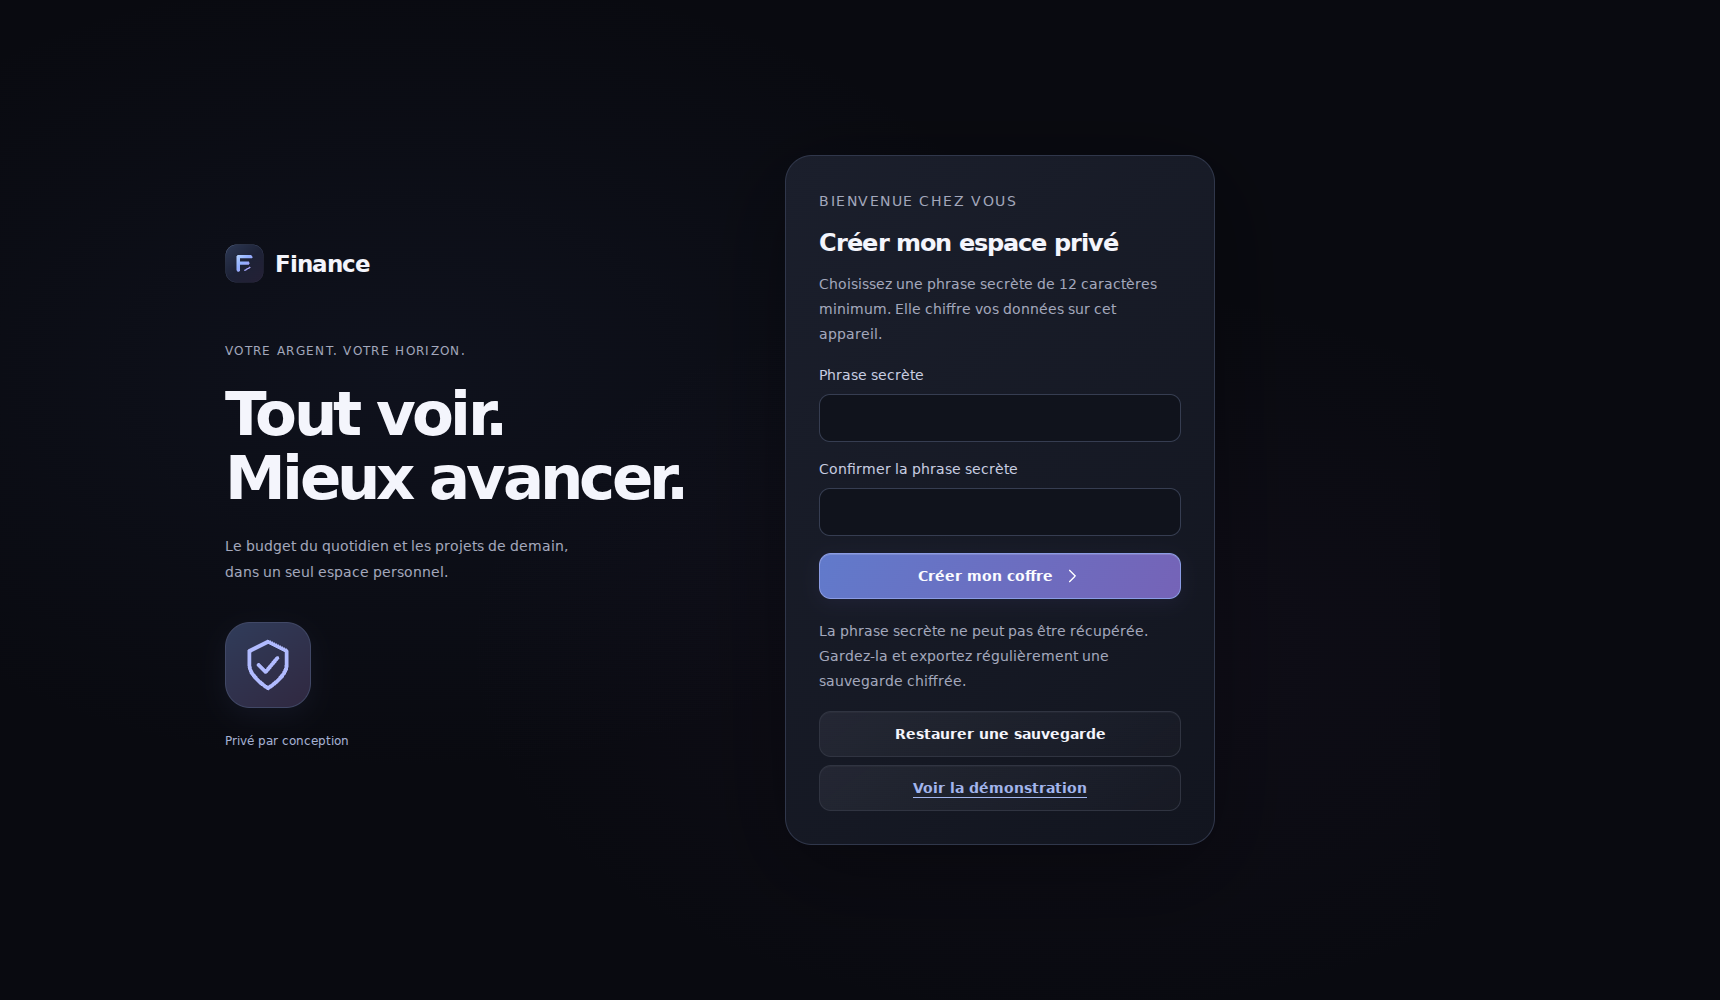
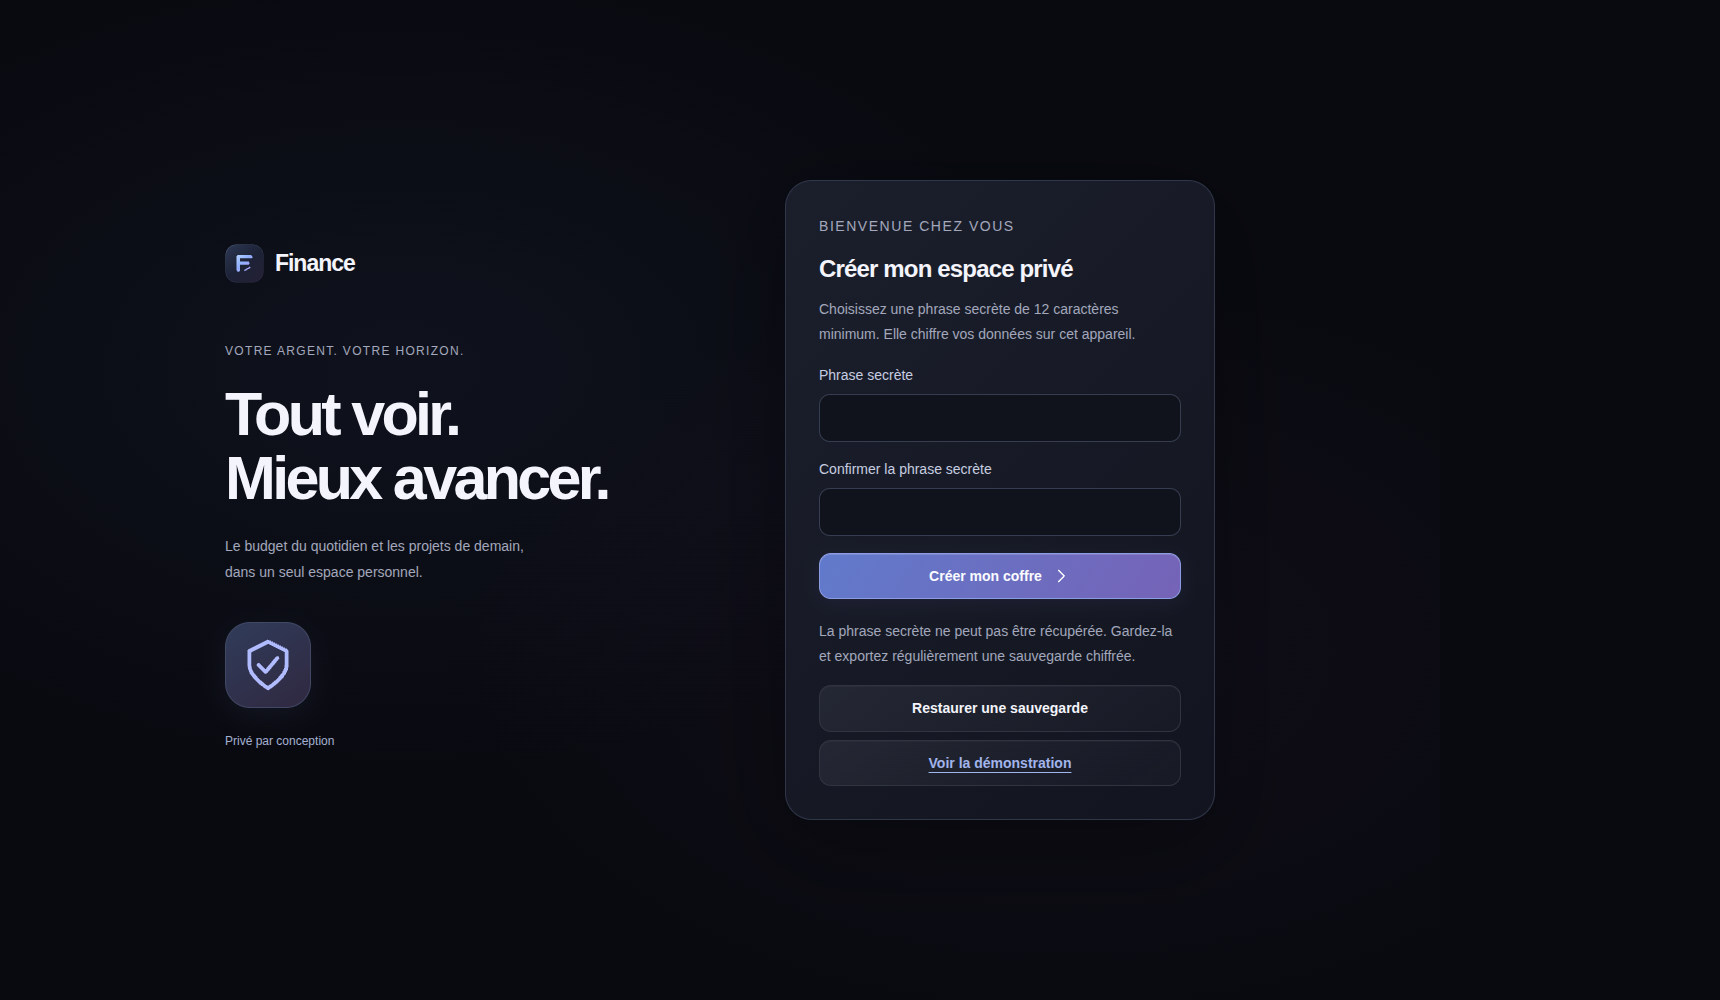
wip: durcissement du coffre et polish visuel en cours
Point d'étape intermédiaire pendant la session de finalisation
nocturne (agents finance-donnees-sync et finance-designer encore en
cours). Vérifié à cet instant : typecheck OK, 74/74 tests unitaires
(+6 depuis le dernier commit) OK. La revue indépendante et les
parcours e2e complets restent à faire une fois les agents terminés.

Claude-Session: https://claude.ai/code/session_01BRBYP9qFWMSoWkBQrWgN3b

diff --git a/src/vault.test.ts b/src/vault.test.ts
@@ -59,6 +59,12 @@ const sample = (): FinanceData => ({
   ],
 });
 
+function toB64(bytes: Uint8Array): string {
+  let binary = "";
+  for (const byte of bytes) binary += String.fromCharCode(byte);
+  return btoa(binary);
+}
+
 beforeEach(() => {
   local = new MemoryStorage();
   vi.stubGlobal("localStorage", local);
@@ -66,6 +72,7 @@ beforeEach(() => {
 afterEach(() => {
   vi.unstubAllGlobals();
   vi.restoreAllMocks();
+  vi.useRealTimers();
 });
 
 describe("coffre privé avec le vrai Web Crypto", () => {
@@ -175,6 +182,8 @@ describe("coffre privé avec le vrai Web Crypto", () => {
         cipher: { ...envelope.cipher, iv: "!!!!!!!!!!!!====" },
       }),
       JSON.stringify({ ...envelope, ciphertext: "%%%%" }),
+      JSON.stringify({ ...envelope, savedAt: "2026/01/01" }),
+      JSON.stringify({ ...envelope, savedAt: 20260101 }),
     ];
     for (const raw of invalid) {
       await expect(importVault(raw, PASSPHRASE)).rejects.toThrow(
@@ -245,5 +254,155 @@ describe("coffre privé avec le vrai Web Crypto", () => {
       "inaccessible",
     );
     expect(local.length).toBe(0);
+  });
+
+  it("ne laisse aucun coffre à moitié écrit si le stockage est plein dès la création, et permet de réessayer", async () => {
+    local.failWrites = true;
+    await expect(createVault(PASSPHRASE, sample())).rejects.toThrow(
+      "Enregistrement impossible",
+    );
+    // A failed first write must not leave a corrupt or partial vault behind.
+    expect(vaultExists()).toBe(false);
+    expect(local.length).toBe(0);
+    local.failWrites = false;
+    await createVault(PASSPHRASE, sample());
+    expect((await unlockVault(PASSPHRASE)).data).toEqual(sample());
+  });
+
+  it("répète la même erreur pour de nombreuses phrases incorrectes d’affilée, sans dégrader le coffre ni bloquer une tentative correcte", async () => {
+    await createVault(PASSPHRASE, sample());
+    const before = exportVault();
+    const messages = new Set<string>();
+    for (let attempt = 0; attempt < 8; attempt++) {
+      const failure = await unlockVault(`Mauvaise phrase numéro ${attempt}`).catch(
+        (error) => error as Error,
+      );
+      expect(failure).toBeInstanceOf(Error);
+      messages.add((failure as Error).message);
+      // Storage must be byte-identical after every single failed attempt, not just the last one.
+      expect(exportVault()).toBe(before);
+    }
+    // One identical message regardless of attempt count or content: no information leak,
+    // no counter visible in the error, nothing that would tell an attacker they are close.
+    expect(messages.size).toBe(1);
+    // No lockout of any kind: the very next attempt, if correct, opens immediately.
+    const opened = await unlockVault(PASSPHRASE);
+    expect(opened.data).toEqual(sample());
+    expect(exportVault()).toBe(before);
+  });
+
+  it("refuse par défaut de restaurer une sauvegarde plus ancienne que le coffre déjà présent, sans y toucher", async () => {
+    vi.useFakeTimers({ toFake: ["Date"] });
+    const key = await createVault(PASSPHRASE, sample());
+    const oldBackup = exportVault();
+    vi.setSystemTime(new Date("2030-06-01T00:00:00.000Z"));
+    const newer: FinanceData = {
+      ...emptyData(),
+      preferences: { baseCurrency: "EUR", locale: "fr-CH" },
+    };
+    await saveVault(key, newer);
+    vi.useRealTimers();
+    const before = exportVault();
+    await expect(importVault(oldBackup, PASSPHRASE)).rejects.toThrow(
+      "plus ancienne",
+    );
+    // The newer vault already on this device must survive the refused restore untouched.
+    expect(exportVault()).toBe(before);
+    expect((await unlockVault(PASSPHRASE)).data).toEqual(newer);
+    // An explicit, deliberate confirmation still allows reverting to the older backup.
+    const restored = await importVault(oldBackup, PASSPHRASE, true);
+    expect(restored.data).toEqual(sample());
+    expect((await unlockVault(PASSPHRASE)).data).toEqual(sample());
+  });
+
+  it("ne bloque jamais la restauration d’une sauvegarde quand aucun coffre n’existe encore sur l’appareil", async () => {
+    await createVault(PASSPHRASE, sample());
+    const backup = exportVault();
+    local.clear();
+    // Fresh device: nothing to compare the backup's date against, so it must always apply.
+    const restored = await importVault(backup, PASSPHRASE);
+    expect(restored.data).toEqual(sample());
+  });
+
+  it("ne bloque pas une restauration quand le coffre présent sur l’appareil n’a pas de date (format antérieur à ce champ)", async () => {
+    // Simulate a vault written before `savedAt` existed: strip it from a real, currently
+    // installed envelope without touching anything that authenticates it. This entry is
+    // never decrypted in this scenario, only its plaintext metadata is inspected.
+    await createVault(PASSPHRASE, sample());
+    const undated = JSON.parse(exportVault()) as Record<string, unknown>;
+    delete undated.savedAt;
+    local.clear();
+    const OTHER_PASSPHRASE = "Un autre coffre très privé";
+    const newer: FinanceData = {
+      ...emptyData(),
+      preferences: { baseCurrency: "USD", locale: "fr-CH" },
+    };
+    await createVault(OTHER_PASSPHRASE, newer);
+    const newerBackup = exportVault();
+    local.clear();
+    local.setItem("finance.vault.v1", JSON.stringify(undated));
+    // An undated current vault can never be proven newer, so a dated backup must be allowed.
+    const restored = await importVault(newerBackup, OTHER_PASSPHRASE);
+    expect(restored.data).toEqual(newer);
+  });
+
+  it("ne bloque pas une restauration quand la sauvegarde elle-même n’a pas de date (format antérieur à ce champ)", async () => {
+    // Build an envelope exactly as the pre-`savedAt` format did: the field is absent from
+    // both the JSON and the authenticated data, so it must still open and never be treated
+    // as older than anything, regardless of when the current vault was saved.
+    const key = await createVault(PASSPHRASE, sample());
+    const current = JSON.parse(exportVault()) as {
+      kdf: { salt: string; iterations: number };
+    };
+    const iv = crypto.getRandomValues(new Uint8Array(12));
+    const metadata = {
+      format: "Finance",
+      version: 1,
+      kdf: {
+        name: "PBKDF2",
+        hash: "SHA-256",
+        iterations: current.kdf.iterations,
+        salt: current.kdf.salt,
+      },
+      cipher: { name: "AES-GCM", iv: toB64(iv), tagLength: 128 },
+    };
+    const additionalData = new TextEncoder().encode(
+      JSON.stringify([
+        metadata.format,
+        metadata.version,
+        metadata.kdf.name,
+        metadata.kdf.hash,
+        metadata.kdf.iterations,
+        metadata.kdf.salt,
+        metadata.cipher.name,
+        metadata.cipher.iv,
+        metadata.cipher.tagLength,
+      ]),
+    );
+    const legacyData: FinanceData = {
+      ...emptyData(),
+      preferences: { baseCurrency: "USD", locale: "fr-CH" },
+    };
+    const ciphertext = await crypto.subtle.encrypt(
+      { name: "AES-GCM", iv, tagLength: 128, additionalData },
+      key,
+      new TextEncoder().encode(JSON.stringify(legacyData)),
+    );
+    const legacyBackup = JSON.stringify({
+      ...metadata,
+      ciphertext: toB64(new Uint8Array(ciphertext)),
+    });
+    expect(JSON.parse(legacyBackup).savedAt).toBeUndefined();
+    // Move the current vault far into the future first: an undated backup must still be
+    // accepted afterwards, because nothing here is entitled to assume it is older.
+    vi.useFakeTimers({ toFake: ["Date"] });
+    vi.setSystemTime(new Date("2031-01-01T00:00:00.000Z"));
+    await saveVault(key, {
+      ...sample(),
+      preferences: { baseCurrency: "EUR", locale: "fr-CH" },
+    });
+    vi.useRealTimers();
+    const restored = await importVault(legacyBackup, PASSPHRASE);
+    expect(restored.data).toEqual(legacyData);
   });
 });

diff --git a/src/vault.ts b/src/vault.ts
@@ -14,6 +14,9 @@ const CONFLICT_ERROR =
   "Le coffre a changé dans un autre onglet. Verrouillez puis ouvrez-le à nouveau avant d’enregistrer.";
 const encoder = new TextEncoder();
 const decoder = new TextDecoder("utf-8", { fatal: true });
+// Produced only by `new Date().toISOString()`; kept strict so a tampered or foreign
+// value cannot slip past parsing and influence the older-backup comparison below.
+const SAVED_AT_PATTERN = /^\d{4}-\d{2}-\d{2}T\d{2}:\d{2}:\d{2}\.\d{3}Z$/;
 
 type Envelope = {
   format: "Finance";
@@ -21,6 +24,10 @@ type Envelope = {
   kdf: { name: "PBKDF2"; hash: "SHA-256"; iterations: number; salt: string };
   cipher: { name: "AES-GCM"; iv: string; tagLength: 128 };
   ciphertext: string;
+  // Optional so an envelope written before this field existed still parses unchanged
+  // (same authenticated bytes, see additionalData). Absent on either side means
+  // "unknown age": importVault never blocks a restore it cannot date.
+  savedAt?: string;
 };
 type KeyState = { salt: string; iterations: number; expectedRaw: string };
 const keyStates = new WeakMap<CryptoKey, KeyState>();
@@ -64,6 +71,24 @@ function exactKeys(value: Record<string, unknown>, keys: string[]): boolean {
   return (
     Object.keys(value).length === keys.length &&
     keys.every((key) => Object.hasOwn(value, key))
+  );
+}
+
+/** The envelope's required keys, plus the optional `savedAt` — never any other extra key. */
+function envelopeKeysValid(value: Record<string, unknown>): boolean {
+  const required = ["format", "version", "kdf", "cipher", "ciphertext"];
+  const extra = Object.hasOwn(value, "savedAt") ? 1 : 0;
+  return (
+    Object.keys(value).length === required.length + extra &&
+    required.every((key) => Object.hasOwn(value, key))
+  );
+}
+
+function isSavedAt(value: unknown): value is string {
+  return (
+    typeof value === "string" &&
+    SAVED_AT_PATTERN.test(value) &&
+    Number.isFinite(Date.parse(value))
   );
 }
 
@@ -120,7 +145,7 @@ function parseEnvelope(raw: string): Envelope {
   }
   if (
     !record(value) ||
-    !exactKeys(value, ["format", "version", "kdf", "cipher", "ciphertext"]) ||
+    !envelopeKeysValid(value) ||
     value.format !== "Finance" ||
     value.version !== 1 ||
     !record(value.kdf) ||
@@ -134,7 +159,8 @@ function parseEnvelope(raw: string): Envelope {
     value.kdf.iterations < ITERATIONS ||
     value.kdf.iterations > MAX_ITERATIONS ||
     value.cipher.name !== "AES-GCM" ||
-    value.cipher.tagLength !== 128
+    value.cipher.tagLength !== 128 ||
+    (value.savedAt !== undefined && !isSavedAt(value.savedAt))
   ) {
     throw new Error(INVALID_ERROR);
   }
@@ -159,6 +185,9 @@ function additionalData(
       envelope.cipher.name,
       envelope.cipher.iv,
       envelope.cipher.tagLength,
+      // Included only when present so an envelope sealed before this field existed
+      // still authenticates with the exact same bytes it always did.
+      ...(envelope.savedAt === undefined ? [] : [envelope.savedAt]),
     ]),
   );
 }
@@ -228,6 +257,9 @@ async function seal(
       salt: state.salt,
     },
     cipher: { name: "AES-GCM", iv: toBase64(iv), tagLength: 128 },
+    // Authenticated, unencrypted save time. Not secret; lets a later restore warn
+    // before silently replacing data saved more recently than the backup being applied.
+    savedAt: new Date().toISOString(),
   };
   try {
     const ciphertext = await crypto.subtle.encrypt(
@@ -392,13 +424,41 @@ export function exportVault(): string {
   return raw;
 }
 
+/** Restores an encrypted backup, replacing whatever vault is on this device.
+ * Fully decrypted and validated before any write, so a wrong passphrase or a corrupted,
+ * truncated or foreign file never touches the existing vault (see tests).
+ * When a vault already exists here and both it and `raw` carry a `savedAt`, a backup
+ * strictly older than the current vault is refused rather than silently discarded —
+ * pass `allowOlder: true` (`allowOlder` as third argument) once the caller has
+ * explicitly confirmed that replacing more recent data is intended. */
 export async function importVault(
   raw: string,
   passphrase: string,
+  allowOlder = false,
 ): Promise<{ key: CryptoKey; data: FinanceData }> {
   const previous = readRaw();
   const envelope = parseEnvelope(raw);
   const result = await open(envelope, passphrase);
+  // A wrong passphrase always fails above, before this ever runs: dating a backup an
+  // attacker cannot open leaks nothing. Only compare once both sides are authenticated.
+  if (!allowOlder && previous !== null && envelope.savedAt !== undefined) {
+    let currentSavedAt: string | undefined;
+    try {
+      // Envelope metadata only: never requires the current passphrase to date it.
+      currentSavedAt = parseEnvelope(previous).savedAt;
+    } catch {
+      // The vault on this device cannot be read at all: dating it is impossible, and
+      // blocking the one operation that could recover it would be actively harmful.
+      currentSavedAt = undefined;
+    }
+    // Both timestamps come from `new Date().toISOString()`, so lexicographic order
+    // matches chronological order; missing on either side means "unknown", never "older".
+    if (currentSavedAt !== undefined && envelope.savedAt < currentSavedAt) {
+      throw new Error(
+        `Cette sauvegarde est plus ancienne (enregistrée le ${envelope.savedAt}) que le coffre déjà présent sur cet appareil (enregistré le ${currentSavedAt}). Elle n’a pas été restaurée pour ne pas remplacer des données plus récentes ; confirmez explicitement pour la restaurer quand même.`,
+      );
+    }
+  }
   // Validate and decrypt completely before any write. An invalid import leaves the old vault intact.
   const normalized = JSON.stringify(envelope);
   await commit(normalized, previous);

diff --git a/src/index.css b/src/index.css
@@ -476,6 +476,17 @@ img.brand-mark {
   font-weight: 450;
   margin-left: 9px;
 }
+/* Variante utilisée hors de la carte patrimoine (ex. Projection nette de
+   « Mon mois ») : la carte y est plus étroite, notamment en une colonne sur
+   iPad/iPhone où .two-columns repasse à 1fr. Sans cette règle, .hero-value
+   restait à 56px et un montant à 5 chiffres pouvait dépasser ou se couper
+   au milieu des chiffres (overflow-wrap: anywhere) dès ~390px de large. */
+.hero-value.compact {
+  font-size: 32px;
+  line-height: 1.2;
+  letter-spacing: -0.045em;
+  margin: 4px 0 6px;
+}
 .hero-foot {
   display: flex;
   align-items: center;
@@ -1435,6 +1446,17 @@ input::file-selector-button {
   justify-content: space-between;
   align-items: center;
   padding-block: 7px;
+  flex-wrap: wrap;
+  row-gap: 4px;
+}
+/* Sans ça, le texte et le bouton restent deux items flex sur une seule
+   ligne (nowrap) : à largeur étroite ils ne passent pas à la ligne, ils se
+   compriment chacun, et « Ouvrir mon coffre » se coupait « Ouvrir mon » /
+   « coffre » dans son propre bouton (visible à 390px). flex-wrap laisse le
+   bouton passer entier à la ligne suivante ; nowrap l’empêche de se
+   recouper lui-même s’il reste seul sur sa ligne. */
+.demo-notice .text-button {
+  white-space: nowrap;
 }
 .flow-chart > div + div {
   margin-top: 21px;
@@ -1747,7 +1769,8 @@ input::file-selector-button {
     gap: 10px;
     padding-block: 14px;
   }
-  .row-icon {
+  .row-icon,
+  .row .institution-icon {
     width: 37px;
     height: 37px;
     border-radius: 11px;
@@ -1756,8 +1779,13 @@ input::file-selector-button {
     display: block;
     font-size: 14px;
   }
+  /* Le montant est l’information prioritaire de la ligne (opérations,
+     récurrences, positions, documents) : il ne doit pas devenir plus petit
+     que son libellé. La règle précédente le ramenait à 12px ici, sous le
+     row-title à 14px, ce qui inversait la hiérarchie des montants
+     justement sur le format où elle compte le plus (iPhone). */
   .row-value {
-    font-size: 12px;
+    font-size: 14px;
   }
   .row-detail {
     display: block;
@@ -1957,7 +1985,9 @@ input::file-selector-button {
   }
   .page-footer {
     margin-top: 25px;
-    font-size: 9px;
+    /* 9px rendait la mention « Espace de démonstration · exemples fictifs »
+       difficile à lire sur le format où elle est le plus nécessaire. */
+    font-size: 11px;
   }
 }
 @media (max-width: 360px) {
